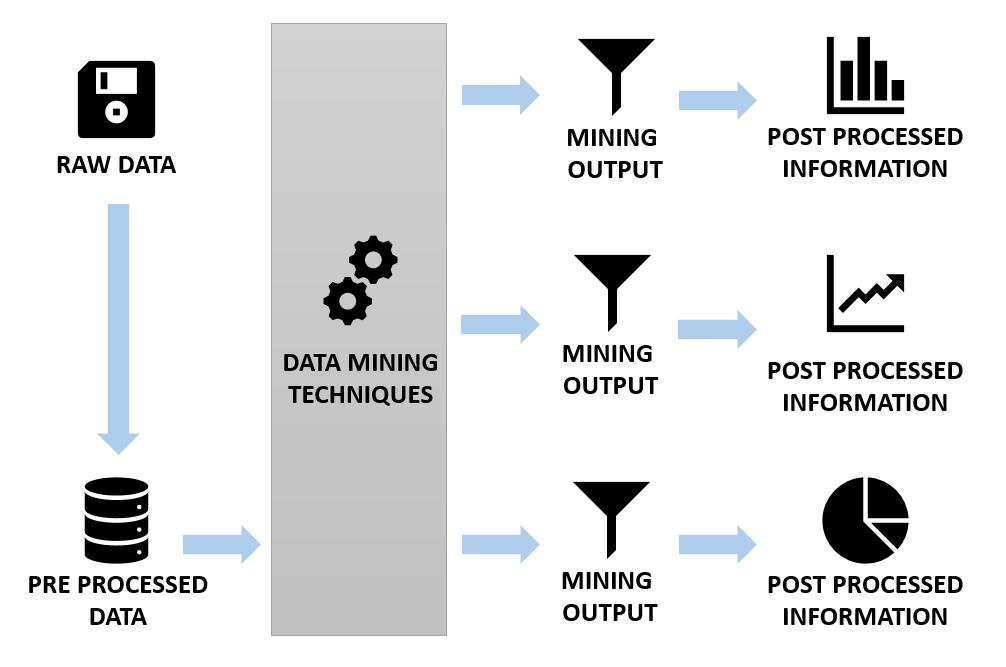
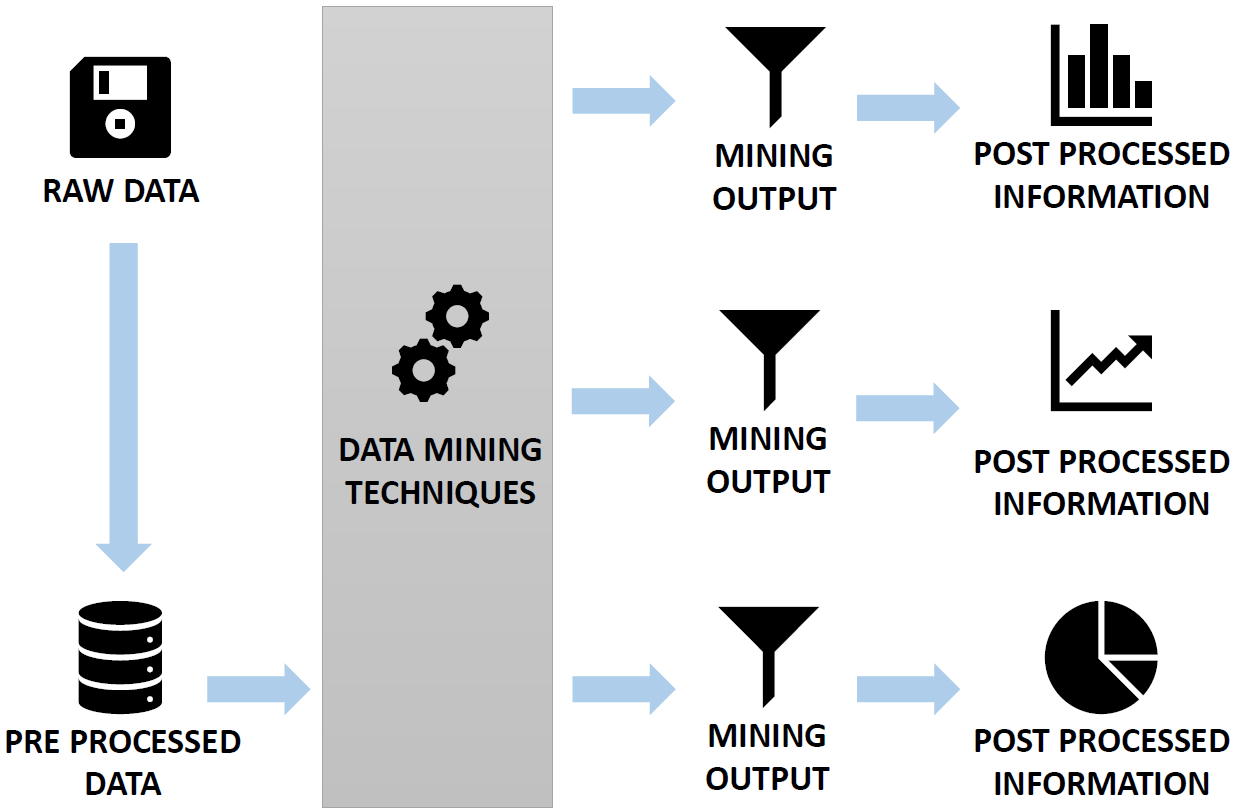
Fast commit

diff --git a/pres/src/intro-min.tex b/pres/src/intro-min.tex
@@ -1,8 +1,9 @@
 %-------------------------------------------------------
 \begin{frame}{Introduction}{A general view about the Data Mining process}
 %-------------------------------------------------------
-	\noindent\begin{centering}
-		\vspace{-2mm}\hspace{-5mm}\includegraphics[scale=0.33]{img1_noback.png}
+	\begin{centering}
+		\vspace{0.2cm}
+		\hspace{-0.2cm}\includegraphics[scale=0.25]{img1_noback.png}
 	\end{centering}
 \end{frame}
 
@@ -14,8 +15,8 @@
 
 	\begin{block}{}
 	    \begin{itemize}
-		    \item<1-> \alert{Data Processing} --- \textbf{MongoDB}: advanced \emph{dbms}, operating in the \emph{noSQL} paradigm. \\ \hspace{0.8cm}\textcolor{cyan}{\emph{new!}}
-		    \item<2-> \alert{Data Mining Algorithms} --- \textbf{Weka}: software which provide a \emph{framework} for running data mining algorithms.
+		    \item<1-> \alert{Data Processing}: \hspace{0.2cm} \includegraphics[scale=0.18, trim=0 0.8cm 0 0]{../thesis/img/mongodb.png} \\\vspace{0.2cm} \emph{New tech, noSQL paradigm, good skill to learn!} \vspace{0.4cm}
+		    \item<2-> \alert{Data Mining}: \hspace{0.2cm} \includegraphics[scale=0.18, trim=0 0.8cm 0 0]{../thesis/img/weka_noback.png}
 			\item<3-> \alert{Visualization Techniques} \\
 			--- \textbf{R language}: programming language with an extensive data visualization library; \\
 			--- \textbf{Spreadsheets}: tabular data managing software, like Microsoft Excel and OpenOffice Calc.
